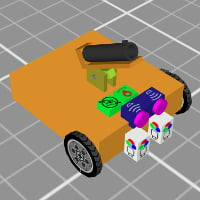
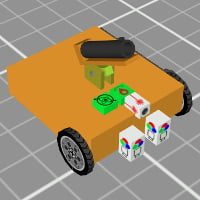
* Changed paintball robot to use laser range sensor

diff --git a/public/js/robotTemplates.js b/public/js/robotTemplates.js
@@ -165,7 +165,8 @@ var robotTemplates = [
     name: 'paintball',
     shortDescription: 'Paintball Launcher',
     longDescription:
-      '<p>This robot is similar to the double sensor line follower, but with the addition of a paintball launcher mounted on an motorized arm.</p>' +
+      '<p>This robot is similar to the double sensor line follower, but with the addition of a paintball launcher mounted on an motorized arm. ' +
+      'The ultrasonic distance sensor is also replaced with a long range (5m) laser range sensor.</p>'  +
       '<p>Read the <a href="https://github.com/QuirkyCort/gears/wiki/Paintball-Launcher" target="_blank">Paintball Launcher documentations</a> to learn how to launch a paintball.</p>',
     longerDescription:
       '<h3>Dimensions</h3>' +
@@ -185,7 +186,7 @@ var robotTemplates = [
       '<ul>' +
         '<li>Port 1 : Color Sensor</li>' +
         '<li>Port 2 : Color Sensor</li>' +
-        '<li>Port 3 : Ultrasonic Distance</li>' +
+        '<li>Port 3 : Laser Range Sensor</li>' +
         '<li>Port 4 : Gyro</li>' +
         '<li>Port 5 : GPS Sensor</li>' +
       '</ul>',
@@ -224,10 +225,12 @@ var robotTemplates = [
         options: null
       },
       {
-        type: 'UltrasonicSensor',
-        position: [0, 2.5, 8],
-        rotation: [0, 0, 0],
-        options: null
+        type: 'LaserRangeSensor',
+        position: [0, 2.5, 7.5],
+        rotation: [-Math.PI/2, 0, 0],
+        options: {
+          rayLength: 500
+        }
       },
       {
         type: 'GyroSensor',
